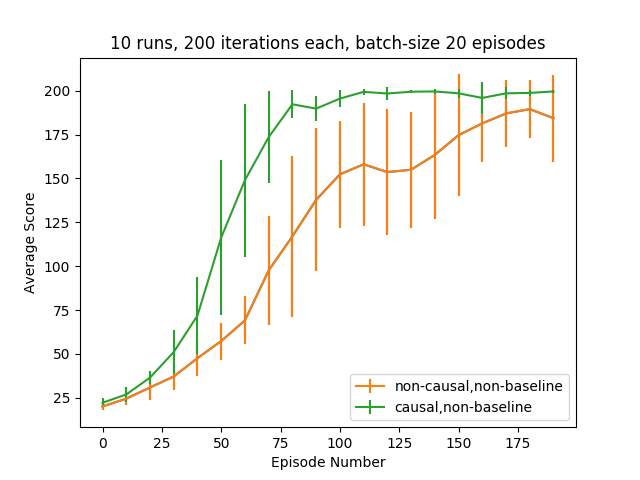
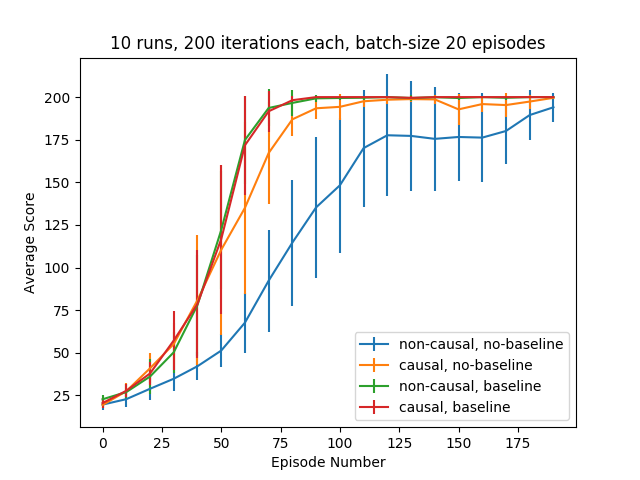
fixing baseline

diff --git a/policygradients/cartpole.py b/policygradients/cartpole.py
@@ -3,6 +3,9 @@ import numpy as np
 import torch
 import torch.nn as nn
 import torch.optim as optim
+import matplotlib.pylab as plt
+
+plt.ion()
 
 env = gym.make('CartPole-v0')
 
@@ -59,7 +62,7 @@ policy = PolicyNet(N_inputs,
                    activation,
                    output_activation=output_activation)
 
-#(s_t, t) -> estimate of value function
+#(s_t, t) -> estimate of value function (not being used yet)
 critic = PolicyNet(N_inputs+1, 
                    1, 
                    N_hidden_layers, 
@@ -68,16 +71,12 @@ critic = PolicyNet(N_inputs+1,
                    None)
 
 
-def create_trajectories(env, policy, N, causal=False, baseline=None):
-    J_list = []
-    R_list = []
-
+def create_trajectories(env, policy, N, causal=False, baseline=False):
     action_probs_all_list = []
     rewards_all_list = []
 
-    for _ in range(N):
+    for _ in range(N): #run env N times
         state = env.reset()
-        prob_list = torch.tensor([])
         
         action_prob_list, reward_list = torch.tensor([]), torch.tensor([])
         done = False 
@@ -104,15 +103,26 @@ def create_trajectories(env, policy, N, causal=False, baseline=None):
     #mean reward
     R = np.mean([torch.sum(r).item() for r in rewards_all_list])
     
-    baseline_term = 0
-    if baseline:
-        baseline_term = R
-
     J = 0
     if causal:
+        #compute baseline terms dependent on time (pretty horrible implementation)
+        T = np.max([len(row) for row in rewards_to_go_list])
+        baseline_term = torch.zeros(T)
+        if baseline:
+            baseline_term = torch.zeros(N, T)
+            for idx in range(N):
+                row = rewards_to_go_list[idx]
+                baseline_term[idx] = torch.cat((row, torch.zeros(T-len(row))))
+            baseline_term = torch.mean(baseline_term, dim=0)
+
         for idx in range(N):
-            J += (action_probs_all_list[idx].log() * (rewards_to_go_list[idx] - baseline_term)).sum()
+            row = rewards_to_go_list[idx]
+            J += (action_probs_all_list[idx].log() * (row - baseline_term[:len(row)])).sum()
     else:
+        baseline_term = 0
+        if baseline:
+            baseline_term = R
+
         for idx in range(N): #loop over trajs
             J += action_probs_all_list[idx].log().sum() * (rewards_all_list[idx].sum() - baseline_term)
     
@@ -128,7 +138,7 @@ def training_loop(N_iter,
                   policy=None, 
                   lr=1e-2, 
                   causal=False,
-                  baseline=None,
+                  baseline=False,
                   debug=False):
     
     if policy is None:
@@ -155,7 +165,7 @@ def training_loop(N_iter,
 
     return reward_curve
 
-def get_learning_curves(N_exp, N_iter, batch_size, env, causal=False, baseline=None):
+def get_learning_curves(N_exp, N_iter, batch_size, env, causal=False, baseline=False):
     reward_curve_list = []
     for _ in range(N_exp):
         policy = PolicyNet(N_inputs, N_outputs, N_hidden_layers, N_hidden_nodes, activation, output_activation)
